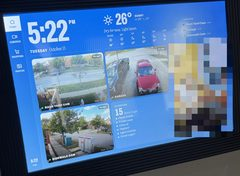
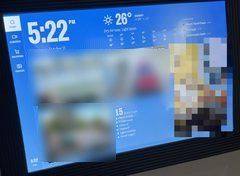
docs: blur camera views in the #87 photos; shorter build description

Changed region(s): [[0.1167, 0.2557, 0.7, 0.9375]]

diff --git a/docs/community-builds.md b/docs/community-builds.md
@@ -11,7 +11,7 @@ Built one? Add it in a pull request (one row, a link to your post, and optionall
 
 | Build&nbsp;&nbsp;&nbsp;&nbsp;&nbsp;&nbsp;&nbsp;&nbsp;&nbsp;&nbsp;&nbsp;&nbsp;&nbsp;&nbsp;&nbsp;&nbsp;&nbsp;&nbsp;&nbsp;&nbsp;&nbsp;&nbsp;&nbsp;&nbsp;&nbsp;&nbsp;&nbsp;&nbsp;&nbsp;&nbsp;&nbsp;&nbsp;&nbsp;&nbsp;&nbsp;&nbsp;&nbsp;&nbsp;&nbsp;&nbsp; | Who |
 | --- | --- |
-| <img src="images/community/moeealii-37.jpg" width="200" alt="Build by @moeealii: Today screen with three live Wyze cameras"><br><img src="images/community/moeealii-38.jpg" width="200" alt="Build by @moeealii: camera timeline with recorded events"><br>[Home security station on a rooted PF1007L (Allwinner A33): three Wyze cameras live, 7 days of continuous recording on a scrubbable timeline with person/vehicle events, fast-forward and enhance, plus weather, shopping and family photos](https://x.com/moeealii) | [@moeealii](https://x.com/moeealii) |
+| <img src="images/community/moeealii-37.jpg" width="200" alt="Build by @moeealii: Today screen with three live Wyze cameras"><br><img src="images/community/moeealii-38.jpg" width="200" alt="Build by @moeealii: camera timeline with recorded events"><br>[Home security station on a PF1007L: three Wyze cameras live and a 7-day recording timeline with person and vehicle events](https://x.com/moeealii) | [@moeealii](https://x.com/moeealii) |
 | <img src="images/community/RhysSullivan-04.jpg" width="200" alt="Build by @RhysSullivan"><br>[Frame running an Executor v2 metrics dashboard; offering them to YC founders](https://x.com/RhysSullivan/status/2109459855383941423) | [@RhysSullivan](https://x.com/RhysSullivan) |
 | <img src="images/community/alanb-05.jpg" width="200" alt="Build by @alanb"><br>[Native Android client/server app instead of a browser dashboard](https://x.com/alanb/status/2109581321584668735)<br>[Now open source as Mado: a painting-of-the-day dashboard, alerts and an MCP server for agents](https://github.com/abradburne/mado) | [@alanb](https://x.com/alanb) |
 | <img src="images/community/tushargugnani-10.jpg" width="200" alt="Build by @tushargugnani"><br>[Chess puzzles, web analytics, home camera view, video streaming](https://x.com/tushargugnani/status/2109659313421853176) | [@tushargugnani](https://x.com/tushargugnani) |
